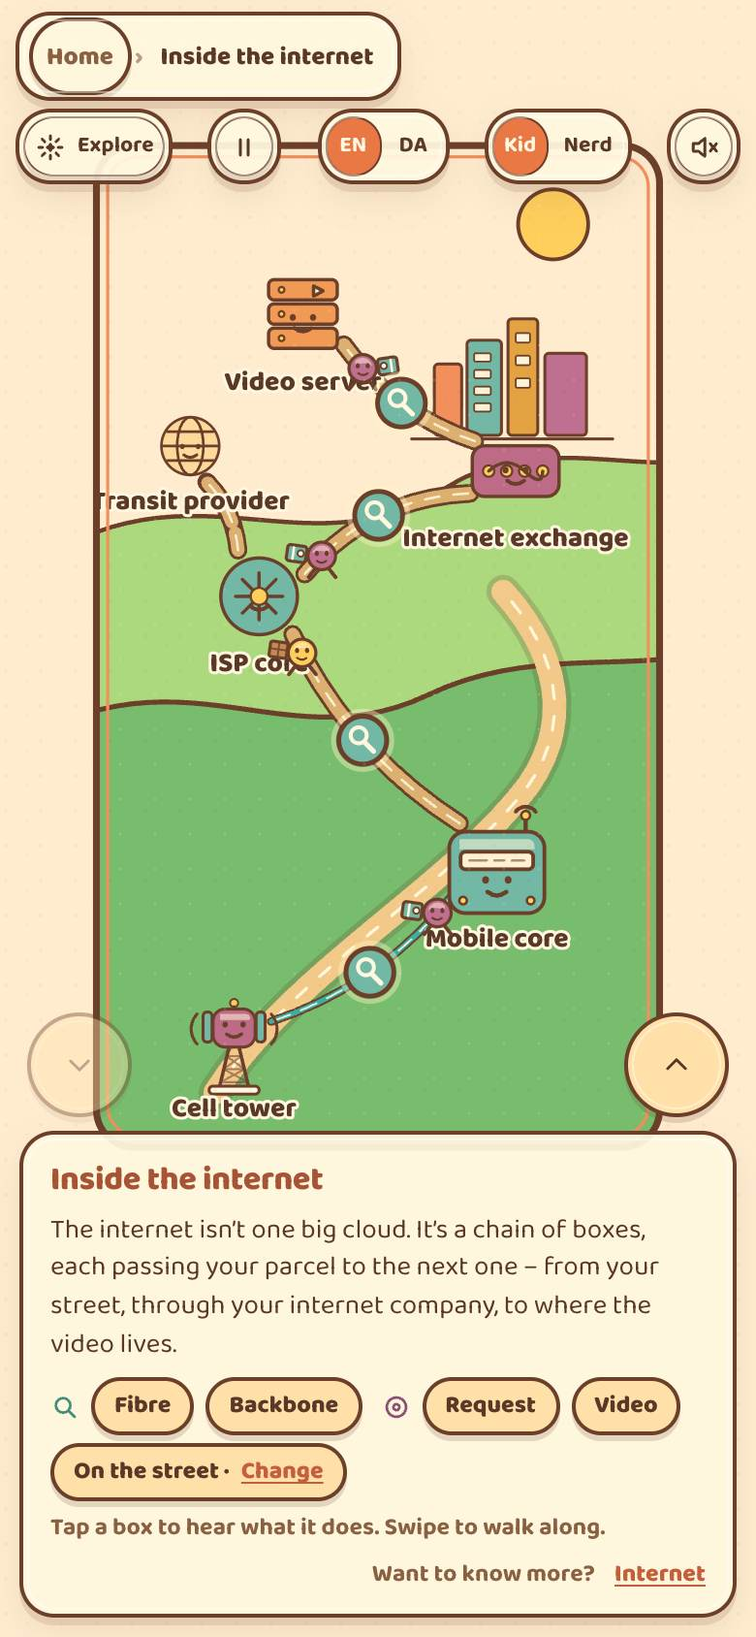
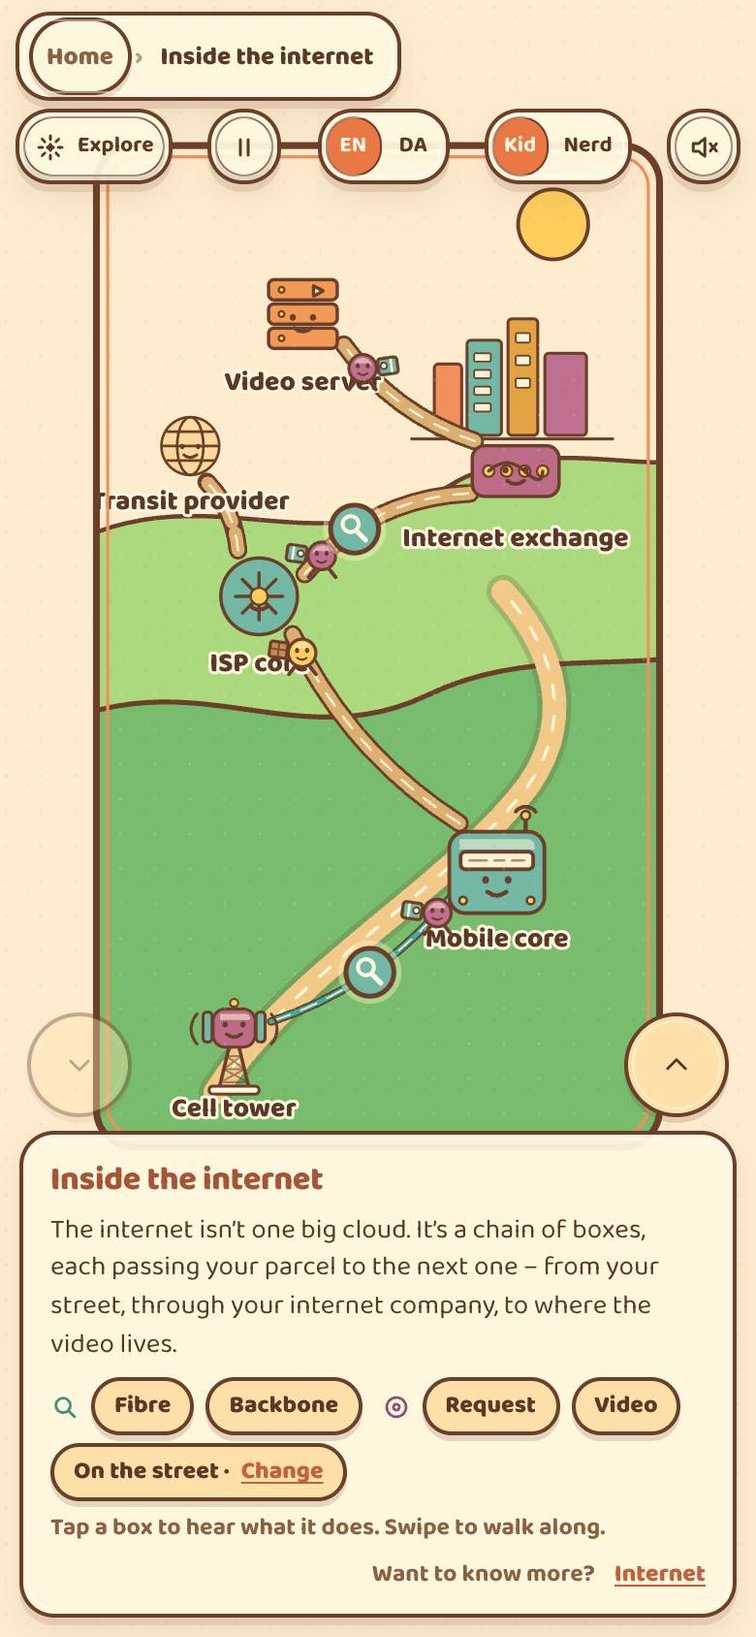
Place a stretch's badge on its links, clear of devices and names
The shared run magnifier sat on the device between two links (e.g. the
Backhaul switch). doorsOf now places it on one of the run's links, as near
the run's middle as it can while clear of every device's art and its name
(measured in the current language, at the biggest it is drawn per
orientation), falling back to the clearest spot. Content-id free; the dive
still opens from the run's middle. Single-link badges are unchanged.

Test: every stretch badge, in every place, activity, orientation and
language, lies on its links and clears every name (and on phones the art).

Copilot-Session: b4f08b34-4f4f-4eee-bfda-8a1506917b85

Changed region(s): [[0.4308, 0.2156, 0.5846, 0.3389], [0.4308, 0.4313, 0.5231, 0.4929]]

diff --git a/src/model/doors.test.ts b/src/model/doors.test.ts
@@ -1,17 +1,21 @@
 import { describe, expect, it } from 'vitest';
 import { fit } from '../engine/camera';
-import { badgeSize, doorsInView, doorsOf, layoutDoors, type Door } from './doors';
-import { morphScene, pathScene } from './layout';
+import { bezier } from '../engine/geometry';
+import { badgeReach, badgeSize, clearance, doorsInView, doorsOf, layoutDoors, nodeBoxes, type Door } from './doors';
+import { morphScene, pathScene, type SNode } from './layout';
 import { content } from './registry';
 import { resolveRoute } from './resolve';
-import { chainAt, chainOf, childrenOf, diveRuns, fitRectLocal, frameOf, sceneRef, stopRectLocal, rectToRoot } from './tree';
+import { loadAllPacks, packs } from './strings';
+import { childrenOf, diveRuns, fitRectLocal, frameOf, sceneRef, stopRectLocal, rectToRoot } from './tree';
 
 const home = resolveRoute({ activity: 'watch-video', places: ['home'] });
 const street = resolveRoute({ activity: 'watch-video', places: ['street'] });
 const list = (ds: { kind: string; id: string }[]) => ds.map((d) => `${d.kind}:${d.id}`);
 /** A scene's doors, with its runs of links. */
 const doorsIn = (r: typeof home, group: string | null, o: 'landscape' | 'portrait', root = group === null) =>
-  doorsOf(pathScene(r, group, o), root, diveRuns(r, group, o).byLink);
+  doorsOf(pathScene(r, group, o), root, diveRuns(r, group, o).byLink, o, nameW);
+/** Names about 10 characters wide. */
+const nameW = () => 170;
 
 describe('doors', () => {
   it('lists what the root and a group open, swap first, then in route order', () => {
@@ -23,14 +27,40 @@ describe('doors', () => {
     expect(inside.map((d) => d.links)).toEqual([['home-cabinet'], ['cabinet-backhaul', 'backhaul-bng'], ['bng-core', 'core-ixp', 'ixp-cdn']]);
   });
 
-  it('puts a stretch\'s badge in its middle, on the path: on the device between two links, on the middle one of three', () => {
-    const o = 'landscape', ps = pathScene(home, 'internet', o), ch = chainOf(home, 'internet', o), d = doorsIn(home, 'internet', o);
-    const arc = (id: string) => ch.items.find((x) => x.id === id)!.s;
-    const metro = d.find((k) => k.id === 'cabinet-backhaul')!, backbone = d.find((k) => k.id === 'bng-core')!;
-    expect(metro.at).toEqual(chainAt(ch, (arc('cabinet-backhaul') + arc('backhaul-bng')) / 2));
-    const sw = ps.nodes.find((n) => n.id === ps.links.find((l) => l.id === 'cabinet-backhaul')!.to)!;
-    expect(Math.hypot(metro.at.x - sw.x, metro.at.y - sw.y)).toBeLessThan(sw.size);
-    expect(backbone.at).toEqual(chainAt(ch, (arc('bng-core') + arc('ixp-cdn')) / 2));
+  // generic: holds for whatever content exists, in every language (names about as wide as the label font draws them)
+  it('puts a stretch\'s one badge on its links, clear of every device and its name, at their biggest', async () => {
+    await loadAllPacks();
+    let stretches = 0;
+    for (const lang of Object.keys(packs)) {
+      const nameW = (n: SNode) => (packs[lang].strings[`node.${n.node.id}.name`] ?? packs.en.strings[`node.${n.node.id}.name`]).length * 28 * 0.52;
+      for (const activity of Object.keys(content.activities)) for (const place of Object.keys(content.places)) {
+        const r = resolveRoute({ activity, places: [place] });
+        for (const o of ['landscape', 'portrait'] as const) {
+          const walk = (path: string[]): void => {
+            const ref = sceneRef(r, path, o)!;
+            if (ref.kind !== 'path') return;
+            const ps = pathScene(r, ref.group, o), boxes = ps.nodes.flatMap((n) => nodeBoxes(n, nameW(n), o));
+            for (const d of doorsOf(ps, path.length === 0, diveRuns(r, ref.group, o).byLink, o, nameW)) {
+              if (d.links.length < 2) continue;
+              stretches++;
+              const at = `${lang} ${place} × ${activity} ${o} /${path.join('/')} ${d.id}`;
+              // names at their biggest: never covered; the art neither on a phone. Landscape links are short: there the
+              // badge keeps off the art at its authored size (in short landscape it may reach a corner of the art's square)
+              expect(clearance(d.at, boxes.filter((_, i) => i % 2)), at).toBeGreaterThanOrEqual(badgeReach(o));
+              expect(clearance(d.at, boxes.filter((_, i) => i % 2 === 0)), at).toBeGreaterThanOrEqual(badgeReach(o, o === 'portrait' ? undefined : 1));
+              const on = Math.min(...d.links.flatMap((id) => [...Array(101).keys()].map((i) => {
+                const q = bezier(ps.links.find((l) => l.id === id)!, i / 100);
+                return Math.hypot(q.x - d.at.x, q.y - d.at.y);
+              })));
+              expect(on, at).toBeLessThan(5);
+            }
+            for (const c of childrenOf(r, ref, o)) if (c.kind === 'expand') walk([...path, c.step]);
+          };
+          walk([]);
+        }
+      }
+    }
+    expect(stretches).toBeGreaterThan(0);
   });
 
   it('puts badges where the art draws them: mid-link, above a group, beside the start device', () => {
@@ -45,8 +75,8 @@ describe('doors', () => {
     const a = pathScene(home, null, 'landscape'), b = pathScene(street, null, 'landscape');
     // the phone and the cloud glide over; the 5G link and its dive only fade in
     const runs = diveRuns(street, null, 'landscape').byLink;
-    expect(list(doorsOf(morphScene(a, b, 0.2), true, runs))).toEqual(['swap:phone', 'expand:internet']);
-    expect(list(doorsOf(morphScene(a, b, 1), true, runs))).toEqual(list(doorsOf(b, true, runs)));
+    expect(list(doorsOf(morphScene(a, b, 0.2), true, runs, 'landscape', nameW))).toEqual(['swap:phone', 'expand:internet']);
+    expect(list(doorsOf(morphScene(a, b, 1), true, runs, 'landscape', nameW))).toEqual(list(doorsOf(b, true, runs, 'landscape', nameW)));
   });
 
   // generic: holds for whatever content exists

diff --git a/src/model/doors.ts b/src/model/doors.ts
@@ -3,8 +3,8 @@
 // changes where you are and what you do ('swap'). The scene art, the tap/hover targets, "What can I explore?" and the
 // caption's door chips all read this one list, so a badge is always where its tap target is.
 import type { Cam, Viewport } from '../engine/camera';
-import { bezier, type Pt } from '../engine/geometry';
-import { startNode, type PathScene } from './layout';
+import { bezier, type Orient, type Pt, type Rect } from '../engine/geometry';
+import { labelY, startNode, type PathScene, type SNode } from './layout';
 import { toRoot, type DiveRun, type Frame } from './tree';
 
 export type DoorKind = 'dive' | 'expand' | 'swap';
@@ -51,9 +51,10 @@ export function layoutDoors(doors: Door[], size: number, lit: boolean, hot: stri
 }
 
 /** A scene's doors: the swap badge first (root only), then the dives and groups in route order. A stretch of links
- *  that is one dive (`runs`, by link: see `diveRuns`) has one badge, in its middle. Items still fading in or out while
- *  switching place have none (a link only the other place has, isn't in `runs` either: it stands alone). */
-export function doorsOf(ps: PathScene, root: boolean, runs: Map<string, DiveRun>): Door[] {
+ *  that is one dive (`runs`, by link: see `diveRuns`) has one badge, on its links clear of the devices between them
+ *  (`stretchSpot`; `nameW` measures a device's name). Items still fading in or out while switching place have none (a
+ *  link only the other place has, isn't in `runs` either: it stands alone). */
+export function doorsOf(ps: PathScene, root: boolean, runs: Map<string, DiveRun>, o: Orient, nameW: (n: SNode) => number): Door[] {
   const out: Door[] = [];
   const start = root ? startNode(ps) : undefined;
   if (start && start.alpha > 0.5) out.push({ kind: 'swap', id: start.id, links: [], at: { x: start.x + start.size * 0.36, y: start.y - start.size * 0.36 } });
@@ -63,9 +64,41 @@ export function doorsOf(ps: PathScene, root: boolean, runs: Map<string, DiveRun>
     const l = n ? null : ps.links.find((k) => k.id === id), run = runs.get(id);
     if (!l?.dive || l.alpha <= 0.5 || (run && run.step !== id)) continue;
     const many = run && run.links.length > 1;
-    out.push({ kind: 'dive', id, links: many ? run.links.map((k) => k.id) : [id], at: many ? run.at : bezier(l, 0.5) });
+    out.push({ kind: 'dive', id, links: many ? run.links.map((k) => k.id) : [id], at: many ? stretchSpot(ps, run, o, nameW) : bezier(l, 0.5) });
   }
   return out;
+}
+
+/** How much bigger than authored names and badges get at most, at rest on a small screen: they never render under the
+ *  theme's minimum (1.5–1.6× on a phone, 1.8× in short landscape). */
+const GROW: Record<Orient, number> = { portrait: 1.7, landscape: 1.9 };
+/** How far a badge's mark reaches from its spot (its ring, and its bob up and down: about 1.3 × its size), at its
+ *  biggest in orientation `o`, or at `sk` screen px per scene unit. */
+export const badgeReach = (o: Orient, sk = 1 / GROW[o]) => 1.3 * badgeSize(28, sk);
+
+/** What a device covers at its biggest: its art, and its name (`nameW`: its width at the authored 28 units), which
+ *  grows up from its baseline. */
+export function nodeBoxes(n: SNode, nameW: number, o: Orient): Rect[] {
+  const f = 28 * GROW[o], w = nameW * GROW[o];
+  return [{ x: n.x - n.size / 2, y: n.y - n.size / 2, w: n.size, h: n.size }, { x: n.x - w / 2, y: labelY(n) - f * 0.8, w, h: f }];
+}
+
+/** How far `p` is from the nearest of `boxes` (0 inside one). */
+export const clearance = (p: Pt, boxes: Rect[]) =>
+  Math.min(...boxes.map((b) => Math.hypot(Math.max(0, b.x - p.x, p.x - b.x - b.w), Math.max(0, b.y - p.y, p.y - b.y - b.h))));
+
+/** Where a stretch's badge goes: on one of its links, away from their ends, as near the stretch's middle (`run.at`,
+ *  often the device between two links) as it can while clear of every device and its name by `badgeReach` and a gap, at
+ *  any size; failing that, as clear as it can. The whole-stretch glow shows what it covers. */
+function stretchSpot(ps: PathScene, run: DiveRun, o: Orient, nameW: (n: SNode) => number): Pt {
+  const boxes = ps.nodes.flatMap((n) => nodeBoxes(n, nameW(n), o)), need = badgeReach(o) + 8;
+  let best = run.at, score = -Infinity;
+  for (const l of run.links) for (let t = 0.2; t < 0.81; t += 0.05) {
+    const p = bezier(l, t), c = clearance(p, boxes);
+    const sc = c >= need ? 1e6 - Math.hypot(p.x - run.at.x, p.y - run.at.y) : c;
+    if (sc > score) { score = sc; best = p; }
+  }
+  return best;
 }
 
 /** The doors whose badge is on screen (clear of the chrome insets by `margin` CSS px). */

diff --git a/src/App.svelte b/src/App.svelte
@@ -21,7 +21,7 @@
   import { divesLoading } from './render/dives.svelte';
   import World from './render/World.svelte';
   import { go, onNavigate, startRouter } from './router';
-  import { loadDiveStrings, loadTheme, nav, settings, themeState, tr, view } from './state.svelte';
+  import { loadDiveStrings, loadTheme, nameW, nav, settings, themeState, tr, view } from './state.svelte';
   import Caption from './ui/Caption.svelte';
   import { captionFor, sceneTitle } from './ui/caption';
   import Chrome from './ui/Chrome.svelte';
@@ -391,7 +391,7 @@
     if (!at) return null;
     const { info, ps } = at;
     const sk = cam.k * info.frame.s, w = toLocal(info.frame, toWorldPt(cam, sx, sy)), minR = 30 / sk;
-    const doors = doorsOf(ps, here.path.length === 0, diveRuns(route, ps.group, view.orient).byLink), size = badgeSize(themeState.current.labelMinPx, sk);
+    const doors = doorsOf(ps, here.path.length === 0, diveRuns(route, ps.group, view.orient).byLink, view.orient, nameW), size = badgeSize(themeState.current.labelMinPx, sk);
     const badges = layoutDoors(doors, size, explore, chipHot ?? pointed, (d) => (textBox(tr(`door.${d.kind}`), 100, 'middle', 0.6, '--label-font').w * size) / 100);
     const onBadge = (pad: number) => badges.findIndex((b) => Math.abs(b.x - w.x) < b.w / 2 + pad && Math.abs(b.y - w.y) < b.h / 2 + pad);
     // right on a badge beats a packet passing under it; near one, the packet wins
@@ -448,7 +448,7 @@
   // "What can I explore?": every door in the scene lights up with its label, for a few seconds or until tapped again.
   const hereDoors = $derived.by(() => {
     const at = hereScene();
-    return at ? doorsOf(at.ps, here.path.length === 0, diveRuns(route, at.ps.group, view.orient).byLink) : [];
+    return at ? doorsOf(at.ps, here.path.length === 0, diveRuns(route, at.ps.group, view.orient).byLink, view.orient, nameW) : [];
   });
   let explore = $state(false), exploreTimer = 0;
   function setExplore(on: boolean) {

diff --git a/src/render/PathScene.svelte b/src/render/PathScene.svelte
@@ -8,10 +8,10 @@
   import type { LivePacket } from '../engine/packets';
   import { nodeArt, placeBackdrops } from '../model/components';
   import { badgeSize, doorsOf, layoutDoors, type Door } from '../model/doors';
-  import type { PathScene, SNode } from '../model/layout';
+  import { labelY, type PathScene, type SNode } from '../model/layout';
   import { diveRuns } from '../model/tree';
   import type { Route } from '../model/resolve';
-  import { loc, nameOf, routeKeys, themeState, tr, trFirst, view } from '../state.svelte';
+  import { loc, nameOf, nameW, routeKeys, themeState, tr, trFirst, view } from '../state.svelte';
   import { getScene, getWorld } from './ctx';
   import TagAt from './TagAt.svelte';
   import Text from './Text.svelte';
@@ -29,11 +29,10 @@
   const A = $derived(themeState.current.art);
   const nerd = $derived(loc.level === 'nerd');
   const backdrops = $derived(places ?? route.slots.map((s) => ({ id: s.place, alpha: 1, dx: 0 })));
-  const labelY = (n: SNode) => (n.label === 'above' ? n.y - n.size / 2 - 4 : n.y + n.size / 2 + 30);
   const nodeTag = (n: SNode) => (nerd ? trFirst([...routeKeys(`tag.${n.id}`), `node.${n.node.id}.tag`]) : '');
   const flowColour = (flow: string, kind: string) =>
     route.activity.flows.find((f) => f.id === flow)?.packets.find((p) => p.kind === kind)?.colour ?? '#fff';
-  const doors = $derived(doorsOf(ps, root, diveRuns(route, ps.group, view.orient).byLink));
+  const doors = $derived(doorsOf(ps, root, diveRuns(route, ps.group, view.orient).byLink, view.orient, nameW));
   const doorPx = $derived(badgeSize(themeState.current.labelMinPx, world.cam.k * scene.frame.s));
   const doorTime = $derived(view.still ? 0 : view.time);
   const doorLabel = (d: Door) => tr(`door.${d.kind}`);

diff --git a/src/ui/caption.ts b/src/ui/caption.ts
@@ -8,7 +8,7 @@ import { pathScene, type PathScene } from '../model/layout';
 import type { Route } from '../model/resolve';
 import { opens } from '../model/stack';
 import { diveRuns, downFrom, parentPath, sceneRef, upFrom, type SceneRef } from '../model/tree';
-import { fill, loc, nameOf, routeKeys, tr, trFirst, trl, yours } from '../state.svelte';
+import { fill, loc, nameOf, nameW, routeKeys, tr, trFirst, trl, yours } from '../state.svelte';
 
 /** A door to open from the caption, by verb: look inside a link's technology or open up a group (doors of the path
  *  scene, by id), or in a dive go down from an envelope to the signal that carries it and up again (by path). */
@@ -20,7 +20,7 @@ export interface CaptionText { title: string; tag?: string; body: string; hint: 
  *  Dives of the same technology name share one chip (the first); their badges on the map open the others. */
 function captionDoors(r: Route, ps: PathScene, o: Orient, root: boolean, stop: string | null): CaptionDoor[] {
   const out: CaptionDoor[] = [];
-  for (const d of doorsOf(ps, root, diveRuns(r, ps.group, o).byLink)) {
+  for (const d of doorsOf(ps, root, diveRuns(r, ps.group, o).byLink, o, nameW)) {
     if (d.kind === 'swap' || (stop && d.id !== stop && !d.links.includes(stop))) continue;
     const l = d.kind === 'dive' ? ps.links.find((k) => k.id === d.id) : null;
     const name = l ? tr(`tech.${l.link.tech.id}.name`) : tr(`node.${ps.nodes.find((k) => k.id === d.id)!.node.id}.name`);

diff --git a/src/state.svelte.ts b/src/state.svelte.ts
@@ -3,7 +3,7 @@
 import type { Level, Orient } from './define';
 import type { Viewport } from './engine/camera';
 import { sfx } from './engine/sound';
-import { clearMeasureCache } from './engine/svg';
+import { clearMeasureCache, textBox } from './engine/svg';
 import type { Loc } from './model/location';
 import { resolveRoute, stringSources, type Hop, type Route } from './model/resolve';
 import { firstOf, languages, loadDiveStrings as loadDives, lookup, lookupLevel, packs } from './model/strings';
@@ -51,6 +51,8 @@ class Nav {
 export const nav = new Nav();
 /** Display name of a hop (an instance of a node). */
 export const nameOf = (h: Hop | string) => tr(`node.${typeof h === 'string' ? nav.route.hops[h]?.node.id ?? h : h.node.id}.name`);
+/** How wide a device's name is drawn, at its authored 28 units (in this language and theme). */
+export const nameW = (n: { node: { id: string } }) => textBox(tr(`node.${n.node.id}.name`), 28, 'middle', 0.6, '--label-font').w;
 /** How the text refers to the reader's own device ("your phone"): the node's `yours` string, else its name. */
 export const yours = (h: Hop) => lookup(loc.lang, `node.${h.node.id}.yours`) ?? nameOf(h);
 /** Strings for an item in the current route: the places and segments may override the item's own text. */

diff --git a/src/model/layout.ts b/src/model/layout.ts
@@ -47,6 +47,8 @@ export interface PathScene {
   stops: string[];
 }
 
+/** The baseline of a device's name (28 px text, centred on it), above or below its art. */
+export const labelY = (n: SNode) => (n.label === 'above' ? n.y - n.size / 2 - 4 : n.y + n.size / 2 + 30);
 /** The device you start from (it carries the "where are you / what are you doing" badge). */
 export const startNode = (ps: PathScene) => ps.nodes.find((n) => n.kind === 'hop' && n.hop.slot !== null && n.hop.index === 0);
 

diff --git a/docs/architecture.md b/docs/architecture.md
@@ -125,7 +125,7 @@ Import rules keep this honest (checked by `src/model/content.test.ts`):
 5. **Camera** (`engine/camera.ts`, `engine/zoom.ts`). Fly zoom and semantic zoom (pinch or scroll into a child and it opens; out, and it closes) work on the current scene, its parent and its children, never on hard-coded ids.
    - Layer dives are only reached by address (the peek, the URL, stepping), never discovered by pinching into a node: `mixes` and `decide` skip layer children that aren't on the current path, so pinching into a router still does what it did.
    - Sideways stepping (`sideways` in `model/tree.ts`) walks the stops of a path scene, the sibling link dives in route order (Wi‑Fi ↔ copper ↔ fibre at home; 5G ↔ fibre on the street), or, in a layer dive, the layers of the same hop in stack order (▲/▼, a vertical flick, the arrow keys).
-   - **Stretches (issue #34).** At dive level a sideways stop is a *run* of consecutive sibling link dives into the same scene with the same technology: the three backbone links inside the internet are one "backbone" stop, not three identical dives. The key is (dive scene, technology) because that is already what makes a dive different (its subject, its `scene.<id>.<tech>` title and captions); the scene alone would merge access, metro and backbone fibre, and adding the layer stack would split the backbone in two (MPLS vs plain Ethernet) for the same picture. It lives in the engine, so it needs no authoring and holds for every place; a link that should be its own stop gets its own technology or `dive`. A run is **one child dive** of the path scene (`diveRuns`): its step (and URL) is its first link, it has one magnifier badge in the middle of the run (on the middle device, or half way along it), and tapping any of its links, or pinching into any of them, opens it; the other links of the run are not steps of their own (an old URL naming one falls back to the parent). Stepping then moves one place at a time everywhere, and the travel into or out of a run lands at its middle, gliding past the devices inside it. Its caption says what it stands for under the title ("2 stretches · via Backhaul switch", the device names joined with the language's `Intl.ListFormat`). When #38 gives each device between links its own step, the devices inside a run become stops too.
+   - **Stretches (issue #34).** At dive level a sideways stop is a *run* of consecutive sibling link dives into the same scene with the same technology: the three backbone links inside the internet are one "backbone" stop, not three identical dives. The key is (dive scene, technology) because that is already what makes a dive different (its subject, its `scene.<id>.<tech>` title and captions); the scene alone would merge access, metro and backbone fibre, and adding the layer stack would split the backbone in two (MPLS vs plain Ethernet) for the same picture. It lives in the engine, so it needs no authoring and holds for every place; a link that should be its own stop gets its own technology or `dive`. A run is **one child dive** of the path scene (`diveRuns`): its step (and URL) is its first link, it has one magnifier badge, on one of its links as near the run's middle as it can be while clear of every device and its name at the biggest they are drawn (`doors.ts`: names are measured in the current language and allowed to grow to 1.7× on a phone and 1.9× in short landscape, as they do at rest; the whole-run glow shows what it covers), and tapping any of its links, or pinching into any of them, opens it; the other links of the run are not steps of their own (an old URL naming one falls back to the parent). Stepping then moves one place at a time everywhere, and the travel into or out of a run lands at its middle, gliding past the devices inside it. Its caption says what it stands for under the title ("2 stretches · via Backhaul switch", the device names joined with the language's `Intl.ListFormat`). When #38 gives each device between links its own step, the devices inside a run become stops too.
    - **Sideways travel (issue #36).** Between two sibling link dives of one path scene (`travelOf`, from the previous and next paths in `onNav`, so Back/Forward and URL edits travel too) the camera doesn't fly straight across: it zooms out to `travelK`, glides along the path, and zooms into the next dive, as three overlapping legs of one move (`travelInterpolator` in `engine/camera.ts`).
      - `travelK` is as deep into the parent as the camera can be before any dive panel starts to fade in (`TRAVEL.u` = 0.4, just under `FADE_IN` in `engine/zoom.ts`, which `mixes` uses), so the reader sees the devices and links in between, never a half-faded dive.
      - The legs (`TRAVEL`): out about 650 ms and in about 700 ms (scaled by how far the zoom changes), eased with a sine ease-in-out on log zoom; each leg overlaps the next by 15 %, so out, glide and in each read. The theme's `motion.speed` scales it all.
@@ -359,7 +359,7 @@ Vitest (`npm test`) covers:
 - route resolution for every place
 - the scene tree and stale-path fallback, layer children per hop, stacked frames, `layerPath` and sideways stepping
 - stretches and travel: the runs per place (home, street, desk, inside the internet), a run as one child with its badge
-  mid-run, the chain curve (each link's midpoint is its dive's anchor), `travelOf`; the travel camera ends exactly on both dives,
+  on its links clear of every device and name (every place, orientation and language), the chain curve (each link's midpoint is its dive's anchor), `travelOf`; the travel camera ends exactly on both dives,
   glides at `travelK` along the path with no dive panel showing, keeps within its timings and carries on when
   re-planned mid-glide; neighbouring stretches into the same scene have different titles in every language
 - doors: the list per scene (matching the scene tree's children everywhere), badge spots, none while fading in a

diff --git a/docs/look-and-feel.md b/docs/look-and-feel.md
@@ -298,7 +298,7 @@ always muted again on reload.
   - A run of links with the same technology is **one stop** (issue #34): inside the internet you step from the
     street's shared fibre (access) to the colours of the metro fibre and on to the long-haul backbone, and each
     looks different, instead of stepping through six identical "light in a glass thread" dives. The run has one
-    magnifier in its middle, and its caption says what it covers ("3 stretches · via ISP core and Internet exchange").
+    magnifier, on its links and never over a device or its name (the run's glow shows what it covers), and its caption says what it covers ("3 stretches · via ISP core and Internet exchange").
   - The buttons point where the camera will go, so they are not mirrored in RTL.
 - **Targets.** Badges, packets and the big round ◀ ▶ ⌃ buttons have 48 px+ hit areas. The chrome buttons are
   36–40 px on a phone so they fit on two rows. That's fine for grown-ups, but a bit small for the youngest.

diff --git a/docs/authoring.md b/docs/authoring.md
@@ -131,7 +131,7 @@ defineTechnology({ look: 'radio' | 'cable' | 'fibre' | 'trunk', colour: '#rrggbb
 - Every technology needs a `dive` (its signal: an existing scene with per-technology strings, or a new one), and every
   layer in its `stack` a layer dive, so a reader can always go all the way down (a content test checks this).
 - Consecutive links with the same technology (and the same dive) are **one sideways stop** at dive level: they are one
-  dive, with one magnifier mid-run and a "2 stretches · via …" line in its caption (issue #34). To make a stretch its own stop, give it its own technology
+  dive, with one magnifier on its links (placed clear of the devices and their names) and a "2 stretches · via …" line in its caption (issue #34). To make a stretch its own stop, give it its own technology
   or its own `dive` (the undersea cable would be a `submarine` technology, not a backbone link with a note).
 
 ## Add a layer (issue #5)
